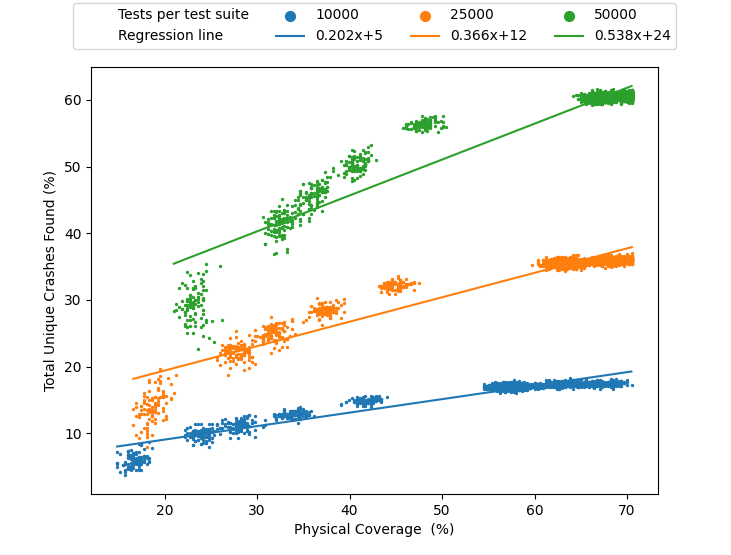
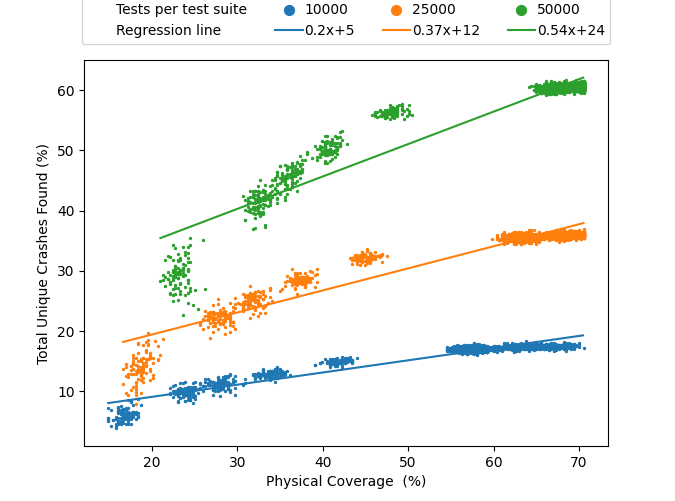
Updated plots

diff --git a/coverage_analysis/rq3_plot.py b/coverage_analysis/rq3_plot.py
@@ -150,9 +150,9 @@ for ind in range(final_coverage.shape[0]):
     x_range = np.arange(np.min(x), np.max(x), 0.1)
 
     # Generate the label for the regression line
-    lb = str(np.round(slope,3)) +"x+" + str(int(np.round(intercept,0)))
+    lb = str(np.round(slope,2)) +"x+" + str(int(np.round(intercept,0)))
     if intercept < 0:
-        lb = str(np.round(slope,3)) +"x" + str(int(np.round(intercept,0)))
+        lb = str(np.round(slope,2)) +"x" + str(int(np.round(intercept,0)))
 
     # Plot the line of best fit
     plt.plot(x_range, slope*x_range + intercept, c='C' + str(color_index), label=lb)
@@ -197,7 +197,7 @@ for i in range(len(test_suite_size)):
 plt.xlabel("Physical Coverage  (%)")
 plt.ylabel("Total Unique Crashes Found (%)")
 # plt.legend(markerscale=5)
-plt.legend(new_handles, new_labels, markerscale=5, loc="lower center", bbox_to_anchor=(0.5, 1.025), ncol=len(test_suite_size) + 1)
+plt.legend(new_handles, new_labels, markerscale=5, loc="lower center", bbox_to_anchor=(0.5, 1.025), ncol=len(test_suite_size) + 1, handletextpad=0.1)
 # plt.tight_layout()
 plt.show()
 

diff --git a/coverage_analysis/rq1_plot.py b/coverage_analysis/rq1_plot.py
@@ -1,6 +1,7 @@
 import pickle
 import argparse
 
+import numpy as np
 import matplotlib.pyplot as plt
 
 
@@ -55,10 +56,10 @@ for i in range(len(accumulative_graph_vehicle_count)):
 print("Index where #vehicles increased - " + str(vehicle_count_index_change))
 
 # Plot the legend
-plt.xlabel("Scenario")
-plt.ylabel("Reachable Set Coverage (%)")
+plt.xlabel("Tests")
+plt.ylabel("Physical Coverage (%)")
 plt.ylim([-5,110])
-plt.legend(markerscale=7, loc="lower center", bbox_to_anchor=(0.5, 1.025), ncol=7)
+plt.legend(markerscale=7, loc="lower center", bbox_to_anchor=(0.5, 1.025), ncol=7, handletextpad=0.1)
 plt.tight_layout()
 
 plt.show()
